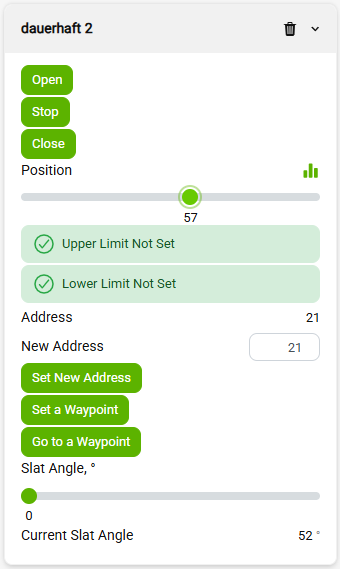
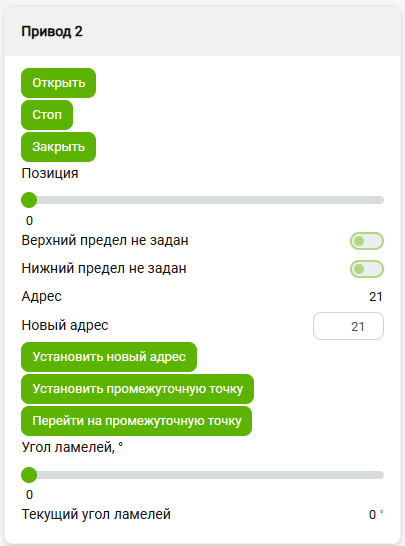
Change Alarm controls to Switch read-only

diff --git a/wb/dauerhaft_pro/controls.py b/wb/dauerhaft_pro/controls.py
@@ -2,7 +2,7 @@
 Device controls: the control table of one actuator and its state publishing.
 
 Single source of truth for every MQTT control of a device — the position
-slider, the limit alarms, the address indicator, the motion / waypoint /
+slider, the travel-limit indicators, the address indicator, the motion / waypoint /
 slat-angle controls and the address change — with their display order and
 bilingual titles.
 
@@ -28,8 +28,8 @@ ORDER_OPEN = 1
 ORDER_STOP = 2
 ORDER_CLOSE = 3
 ORDER_POSITION = 4
-ORDER_ALARM_UPPER_LIMIT = 5
-ORDER_ALARM_LOWER_LIMIT = 6
+ORDER_UPPER_LIMIT_UNSET = 5
+ORDER_LOWER_LIMIT_UNSET = 6
 ORDER_ADDRESS = 7
 ORDER_NEW_ADDRESS = 8
 ORDER_APPLY_ADDRESS = 9
@@ -101,15 +101,18 @@ class DeviceControls:
         Publish every control of the device and subscribe the command topics.
 
         One row per control: (name, type, order, ru title, en title, handler,
-        extra add_control kwargs). Read-only indicators (limit alarms, address,
+        extra add_control kwargs). Read-only indicators (limit indicators, address,
         current slat angle) have no handler; pushbuttons carry no retained value
-        (initial None), and neither do the position slider, the alarms and the
-        current slat angle until the first successful read. The slat-angle
+        (initial None), and neither do the position slider, the limit indicators
+        and the current slat angle until the first successful read. The slat-angle
         controls are added only when the config enables them (slat_angle_mode
         other than "none").
         """
         button = {"initial": None}
-        alarm = {"readonly": True, "initial": None}
+        # The limit indicators are read-only switches (1 = the limit is not set),
+        # not alarms: an alarm at 0 is drawn as a green "OK" plate, which under a
+        # "not set" title reads as a contradiction.
+        indicator = {"readonly": True, "initial": None}
         rows = [
             ("up", "pushbutton", ORDER_OPEN, "Открыть", "Open", self._on_up, button),
             ("stop", "pushbutton", ORDER_STOP, "Стоп", "Stop", self._on_stop, button),
@@ -124,22 +127,22 @@ class DeviceControls:
                 {"min_value": 0, "max_value": protocol.POSITION_MAX, "initial": None},
             ),
             (
-                "alarm_upper_limit_unset",
-                "alarm",
-                ORDER_ALARM_UPPER_LIMIT,
+                "upper_limit_unset",
+                "switch",
+                ORDER_UPPER_LIMIT_UNSET,
                 "Верхний предел не задан",
                 "Upper Limit Not Set",
                 None,
-                alarm,
+                indicator,
             ),
             (
-                "alarm_lower_limit_unset",
-                "alarm",
-                ORDER_ALARM_LOWER_LIMIT,
+                "lower_limit_unset",
+                "switch",
+                ORDER_LOWER_LIMIT_UNSET,
                 "Нижний предел не задан",
                 "Lower Limit Not Set",
                 None,
-                alarm,
+                indicator,
             ),
             (
                 "address",
@@ -217,11 +220,11 @@ class DeviceControls:
 
     def publish_telemetry(self):
         """
-        Poll and publish the position, the limit alarms and the slat angle.
+        Poll and publish the position, the limit indicators and the slat angle.
 
         Meant to be called while the device is online; a silent device simply
         keeps its last published state. A limits-unset marker instead of a
-        position raises the matching alarm(s) and flags the position slider
+        position switches on the matching indicator(s) and flags the position slider
         with a read error ("r") — the actuator has no position until both
         limits exist; a numeric position clears them and is published
         (mirrored when reverse is on).
@@ -230,8 +233,8 @@ class DeviceControls:
         if pos is not None:
             upper_unset, lower_unset = protocol.unset_limits(pos)
             self._limits_unset = upper_unset or lower_unset
-            self._dev.set_value("alarm_upper_limit_unset", int(upper_unset))
-            self._dev.set_value("alarm_lower_limit_unset", int(lower_unset))
+            self._dev.set_value("upper_limit_unset", int(upper_unset))
+            self._dev.set_value("lower_limit_unset", int(lower_unset))
             if self._limits_unset:
                 self._dev.set_control_error("position", "r")
             elif pos <= protocol.POSITION_MAX:

diff --git a/README.md b/README.md
@@ -52,8 +52,9 @@ MQTT-драйвер Wiren Board для приводов штор и жалюзи
   (привод едет в заданный процент и останавливается сам). Пока у привода не
   заданы пределы хода, положения у него нет: ползунок помечается ошибкой
   чтения, а команды позиции отклоняются с записью в журнал;
-- **Верхний предел не задан** / **Нижний предел не задан** — аварии: 1, пока
-  соответствующий предел хода у привода не задан;
+- **Верхний предел не задан** / **Нижний предел не задан** — индикаторы только
+  для чтения: 1, пока соответствующий предел хода у привода не задан, 0 — предел
+  задан;
 - **Установить промежуточную точку** / **Перейти на промежуточную точку** —
   запомнить текущее положение и позже приехать в него;
 - **Угол ламелей** (ползунок 0…180°) и **Текущий угол ламелей** (градусы) —
